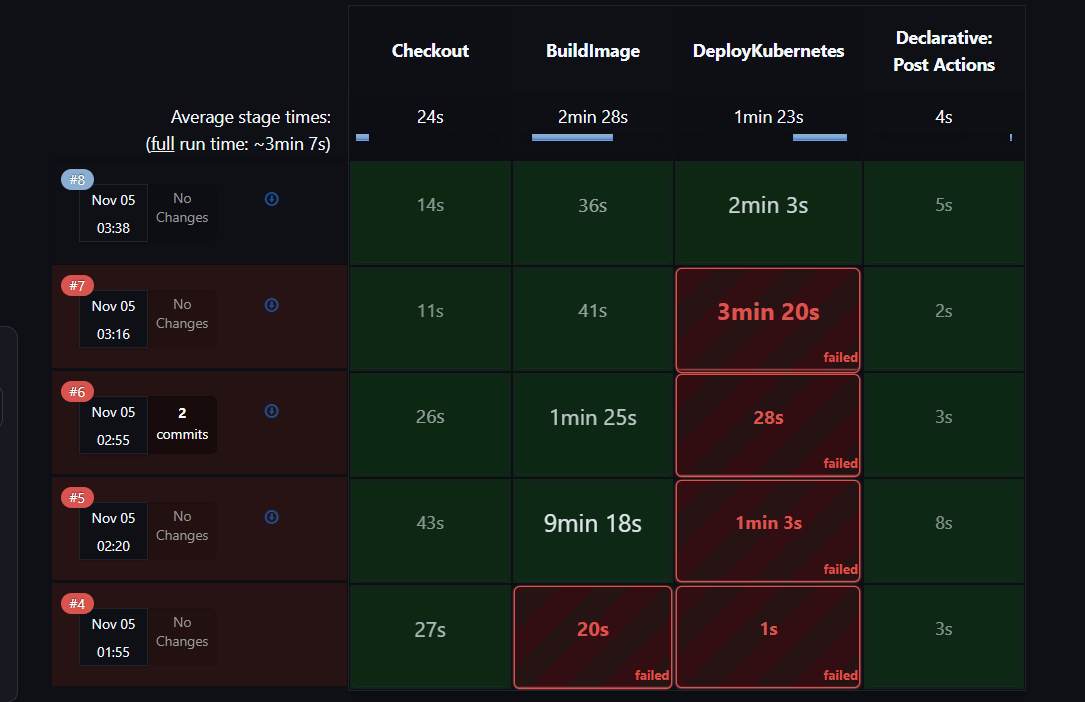
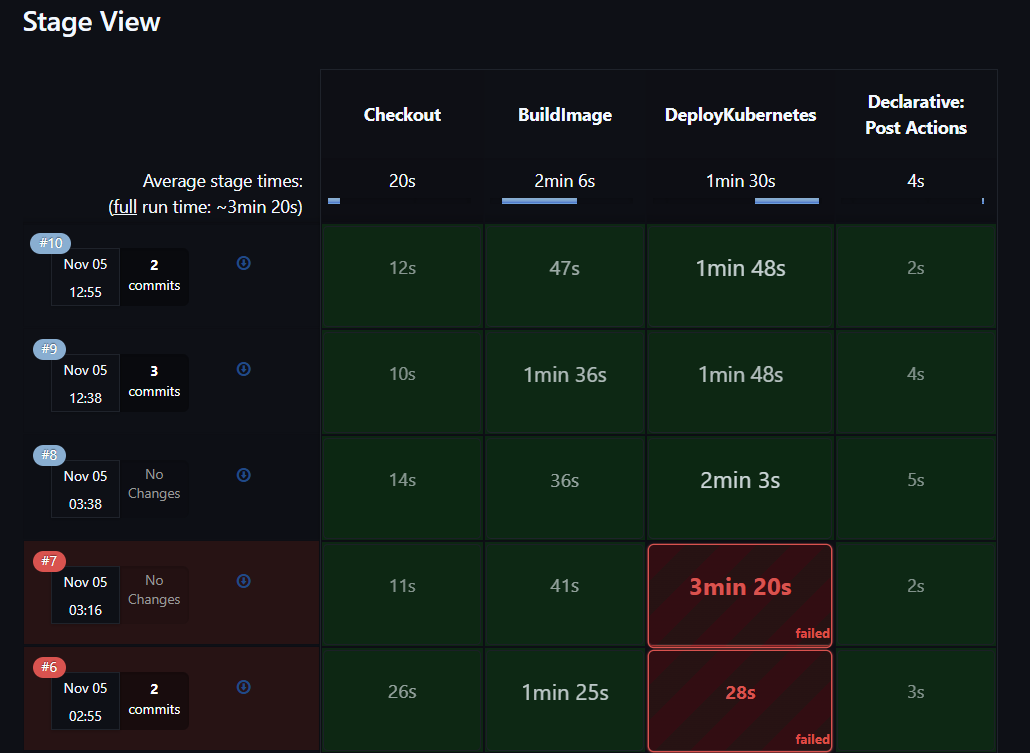
Finished Lab22

diff --git a/jenkins/lab22/README.md b/jenkins/lab22/README.md
@@ -12,6 +12,8 @@ Modernize and scale the Jenkins CI/CD infrastructure by decoupling pipeline logi
    - Execute cluster deployment on a dedicated `k8s-agent` node equipped with cluster network connectivity and `kubectl`.
 3. **Artifact Stashing across Agents**:
    - Utilize Jenkins `stash` and `unstash` mechanisms to share files between nodes without requiring shared persistent storage.
+4. **End-to-End Validation**:
+   - Verify published Docker Hub tags and live deployment updates on Kubernetes via a web browser.
 
 ---
 
@@ -20,17 +22,20 @@ Modernize and scale the Jenkins CI/CD infrastructure by decoupling pipeline logi
 ```text
 lab22/
 ├── vars/
-│   ├── buildApp.groovy          # Shared library step for building, scanning, and pushing Docker image
-│   └── deployKubernetes.groovy  # Shared library step for updating manifest and deploying to K8s
-├── shared-lib-buildApp.png
-├── shared-lib-deployKubernetes.png
-├── jenkinsfile-shared-lib-agents.png
-├── docker-build.png
-├── trivy-scan.png
-├── trivy-process.png
-├── docker-push.png
-├── docker-cleanup.png
-└── pipeline-stage-view.png
+│   ├── buildApp.groovy                  # Shared library step for building, scanning, and pushing Docker image
+│   └── deployKubernetes.groovy          # Shared library step for updating manifest and deploying to K8s
+├── shared-lib-buildApp.png              # Shared library implementation of buildApp
+├── shared-lib-deployKubernetes.png      # Shared library implementation of deployKubernetes
+├── jenkinsfile-shared-lib-agents.png    # Jenkinsfile utilizing shared library & multi-agent allocation
+├── jenkins-nodes-status.png             # Jenkins Node Management dashboard with online distributed nodes
+├── docker-build.png                     # Docker image build execution on built-in agent
+├── trivy-scan.png                       # Trivy security scanning execution
+├── trivy-process.png                    # System process monitoring (top) during Trivy scan
+├── docker-push.png                      # Docker Hub login and image push
+├── docker-cleanup.png                   # Image digest confirmation and local docker cleanup
+├── docker-hub-tags.png                  # Remote Docker Hub registry tags verification
+├── pipeline-stage-view.png              # Jenkins Stage View of end-to-end multi-node pipeline execution (Build #10)
+└── k8s-app-browser-verification.png     # Live web application browser verification on Kubernetes
 ```
 
 ---
@@ -214,32 +219,47 @@ The `Jenkinsfile` consuming `@Library('shared-lib')` and assigning stages to `bu
 
 ![Jenkinsfile Shared Lib and Agents](jenkinsfile-shared-lib-agents.png)
 
-### 4. Docker Build Execution (`built-in` agent)
+### 4. Distributed Jenkins Agent Nodes Status
+Jenkins Node Management dashboard showing both the `Built-In Node` (controller) and `k8s-agent` (worker node) active, synchronized, and connected:
+
+![Jenkins Nodes Status](jenkins-nodes-status.png)
+
+### 5. Docker Build Execution (`built-in` agent)
 Building the container image on the `built-in` node:
 
 ![Docker Build](docker-build.png)
 
-### 5. Trivy Security Scan Execution
+### 6. Trivy Security Scan Execution
 Scanning the newly built image for vulnerabilities using Trivy:
 
 ![Trivy Scan](trivy-scan.png)
 
-### 6. Process Monitoring during Trivy Scan
+### 7. Process Monitoring during Trivy Scan
 Verifying Trivy execution under the `jenkins` user process on the host:
 
 ![Trivy Process](trivy-process.png)
 
-### 7. Docker Hub Authentication & Image Push
+### 8. Docker Hub Authentication & Image Push
 Logging into Docker Hub and pushing the tagged image:
 
 ![Docker Push](docker-push.png)
 
-### 8. Image Digest Confirmation & Local Cache Cleanup
+### 9. Image Digest Confirmation & Local Cache Cleanup
 Confirming successful push and local image deletion (`docker rmi`):
 
 ![Docker Cleanup](docker-cleanup.png)
 
-### 9. End-to-End Pipeline Success across Nodes
-Stage View showing successful multi-node pipeline execution (**Build #8**):
+### 10. Docker Hub Repository Tags Verification
+Verifying the newly published image tags (up to tag `10`) in the remote Docker Hub repository (`mk0230/application-ivolve`):
+
+![Docker Hub Tags](docker-hub-tags.png)
+
+### 11. End-to-End Multi-Node Pipeline Stage View
+Jenkins Stage View showing consecutive successful executions (**Build #8**, **Build #9**, and **Build #10**) across all distributed stages (**Checkout**, **BuildImage**, and **DeployKubernetes**):
 
 ![Pipeline Stage View](pipeline-stage-view.png)
+
+### 12. Application Rollout & Live Web Browser Verification
+Accessing the application live via Kubernetes NodePort service at `http://192.168.1.5:3010`, confirming that the latest changes ("Westown Hub Building 3, Sodic, Beverly Hills, Cairo-Alexandria Desert Road, Unit C41, Jenkins") were deployed and served successfully:
+
+![Application Browser Verification](k8s-app-browser-verification.png)

diff --git a/jenkins/lab21/README.md b/jenkins/lab21/README.md
@@ -34,6 +34,23 @@ Key requirements accomplished:
 
 ---
 
+## Directory Structure
+
+```text
+lab21/
+├── Jenkinsfile              # Declarative pipeline script utilizing shared library
+├── jenkins-kubeconfig       # Kubeconfig secret file for cluster authentication
+├── docker-build.png         # Docker image build execution
+├── trivy-scan.png           # Trivy vulnerability scan execution
+├── trivy-process.png        # Process monitoring during Trivy scan
+├── docker-push.png          # Docker Hub login and push
+├── docker-cleanup.png       # Docker push completion and local image cleanup
+├── docker-hub-tags.png      # Docker Hub repository tags verification
+└── pipeline-stage-view.png  # End-to-end pipeline stage view (Build #8)
+```
+
+---
+
 ## Pipeline Architecture & Configuration
 
 The pipeline is defined in [Jenkinsfile](Jenkinsfile) and uses the Jenkins Shared Library `@Library('shared-lib') _`:
@@ -205,7 +222,12 @@ Docker push completion with SHA256 digest and removal of the local image tag via
 
 ![Docker Cleanup](docker-cleanup.png)
 
-### 6. Pipeline Execution Stage View
+### 6. Docker Hub Repository Tags Verification
+Verification of the published container image tags in the remote Docker Hub repository (`mk0230/application-ivolve`):
+
+![Docker Hub Repository Tags](docker-hub-tags.png)
+
+### 7. Pipeline Execution Stage View
 Jenkins Stage View showing successful execution of **Build #8** across all pipeline stages (**Checkout**, **BuildImage**, and **DeployKubernetes**):
 
 ![Pipeline Stage View](pipeline-stage-view.png)
